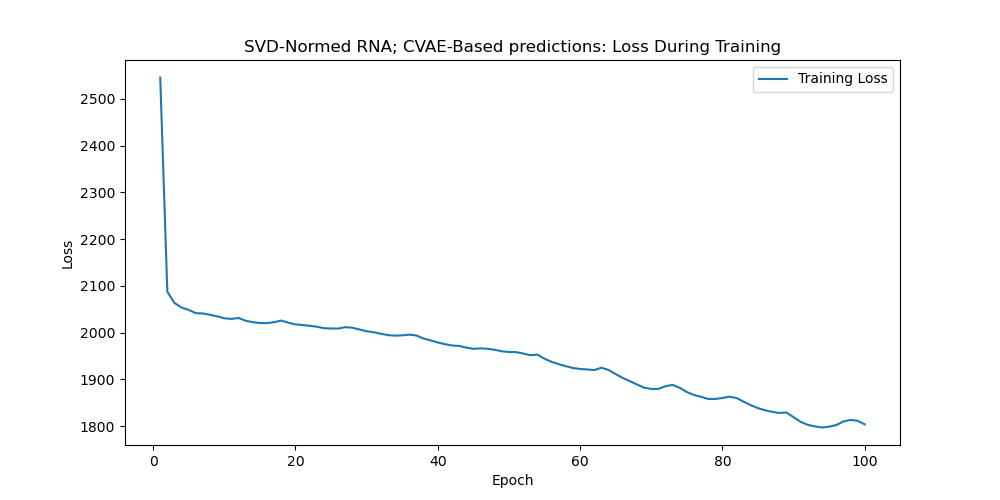
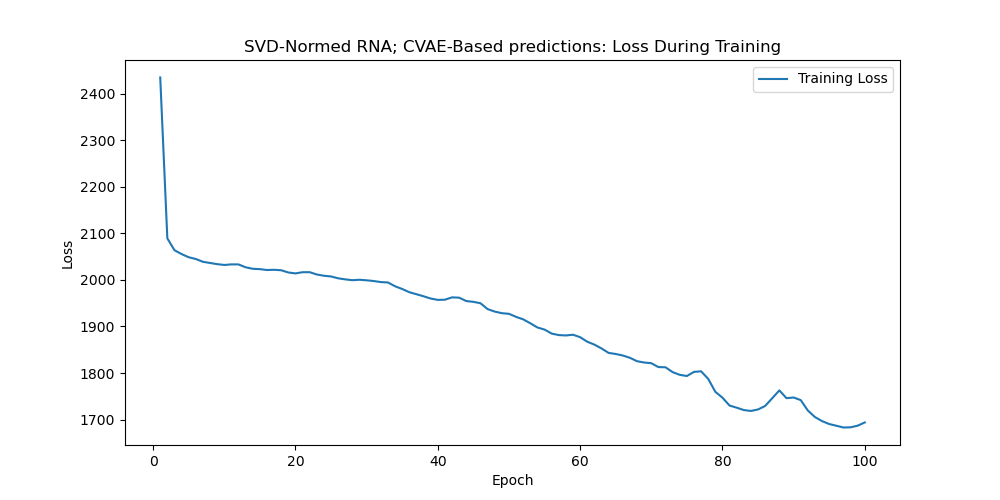
debugging etc

diff --git a/main.py b/main.py
@@ -1,7 +1,7 @@
 import scanpy as sc
 import torch
 import anndata as ad
-from torch.utils.data import DataLoader, TensorDataset
+from torch.utils.data import DataLoader, TensorDataset, random_split
 import numpy as np
 from utils import * 
 from models import VAE, MLP, CVAE
@@ -31,7 +31,7 @@ def main():
     adata.var_names_make_unique()
     adata.layers["counts"] = adata.X.copy()
     sc.pp.filter_genes(adata, min_counts=100) # number of times that RNA is present in the dataset
-    sc.pp.filter_cells(adata, min_counts=500) # number of biomolecules in each cell
+    sc.pp.filter_cells(adata, min_counts=100) # number of biomolecules in each cell
 
     protein = adata[:, adata.var["feature_types"] == "Antibody Capture"].copy()
     rna = adata[:, adata.var["feature_types"] == "Gene Expression"].copy()
@@ -44,8 +44,8 @@ def main():
     
     # RNA Normalization
     sc.pp.log1p(rna)
-    rna_norm = zscore_normalization_and_svd(rna.X.toarray(), n_components=300) # Same as ScLinear authors
-    # rna_norm = rna.X.toarray() # If skipping zscore step
+    # rna_norm = zscore_normalization_and_svd(rna.X.toarray(), n_components=300) # Same as ScLinear authors
+    rna_norm = zscore_normalization(rna.X.toarray()) # If skipping dim reduction step
     
     
     # Protein Normalization 
@@ -57,11 +57,14 @@ def main():
 
     # 80/20 split rule
     split = math.ceil(rna_norm.shape[0] * 0.8)
+    validation_split = math.ceil(rna_norm.shape[0] * 0.95)
     gex_train = rna_norm[:split, :]
-    gex_test = rna_norm[split:, :]
+    gex_test = rna_norm[split:validation_split, :]
+    gex_valid =  rna_norm[validation_split:, :]
 
     adx_train = protein_norm[:split, :]
-    adx_test = protein_norm[split:, :]
+    adx_test = protein_norm[split:validation_split, :]
+    adx_valid = protein_norm[validation_split:, :]
     print(f'Normalized RNA array shape: {rna_norm.shape}')
     print(f'Normalized Protein array shape: {protein_norm.shape}')
     print(f'Original RNA shape: {rna.X.shape}')
@@ -78,17 +81,18 @@ def main():
     latent_size = output_size               # For VAEs: you choose, doesn't theoretically matter
     conditional_size = output_size          # For CVAEs: based on protein dataset shape
     learning_rate = 0.001
-    c = 2 # scaling factor
+    c = 1 # scaling factor
     hidden_dims = [c*1024, c*512, c*256, c*128]  
 
     # print(f'IN: {input_size}, latent: {output_size}, conditional: {conditional_size}')
 
     x_train = torch.from_numpy(gex_train).to(device)
     x_test = torch.from_numpy(gex_test).to(device)
+    x_valid = torch.from_numpy(gex_valid)
 
     y_train = torch.from_numpy(adx_train).to(device)
     y_test = torch.from_numpy(adx_test).to(device)
-
+    y_valid = torch.from_numpy(adx_valid)
 
     # Create TensorDataset and DataLoader
     train_dataset = TensorDataset(x_train, y_train)
@@ -102,9 +106,8 @@ def main():
     print(f'test ADX shape: {y_test.shape}')
     
 
-    train_loader = DataLoader(train_dataset, batch_size=64, shuffle=False)
+    train_loader = DataLoader(train_dataset, batch_size=64, shuffle=True)
     test_loader = DataLoader(test_dataset, batch_size=64, shuffle=False)
-
     
     model = CVAE(input_dim=input_size, latent_dim=latent_size, cond_dim=conditional_size, hidden_dims=hidden_dims).to(device)
     optimizer = optim.Adam(model.parameters(), lr=1e-3)
@@ -120,10 +123,7 @@ def main():
             optimizer.zero_grad()
             
             recon_batch, mu, logvar = model(data, target)
-            recon_batch = recon_batch.to(device)
-            mu = mu.to(device)
-            logvar = logvar.to(device)
-                
+            
             # Debugging checks
             if not (recon_batch.min() >= 0 and recon_batch.max() <= 1):
                 print(f"recon_batch values out of range at batch {batch_idx}")
@@ -147,10 +147,6 @@ def main():
             data, target = data.to(device), target.to(device)
             
             recon_batch, mu, logvar = model(data, target)
-            
-            recon_batch = recon_batch.to(device)
-            mu = mu.to(device)
-            logvar = logvar.to(device)
 
             # Debugging checks
             if not (recon_batch.min() >= 0 and recon_batch.max() <= 1):
@@ -164,8 +160,8 @@ def main():
 
 
     # NOTE: original author eval metric
-    y_pred = sample_from_latent(model, x_test, y_test, device=device)
-    rmse, pearson_corr, spearman_corr = evaluate(y_pred, y_test, verbose=True)
+    y_pred = sample_from_latent(model, x_valid, y_valid, device=device)
+    rmse, pearson_corr, spearman_corr = evaluate(y_pred, y_valid, verbose=True)
     
     
     # Plotting the loss over epochs

diff --git a/utils.py b/utils.py
@@ -25,6 +25,14 @@ def zscore_normalization_and_svd(X: np.ndarray, n_components):
     X_lowdim = svd.fit_transform(X_normalized)
     return X_lowdim
 
+def zscore_normalization(X: np.ndarray):
+    
+    
+    X_sd = np.std(X, axis=1).reshape(-1, 1)
+    X_sd[X_sd == 0] = 1
+    X_normalized = (X - np.mean(X, axis=1).reshape(-1, 1)) / X_sd
+    return X_normalized
+
 
 # Adapted from: https://github.com/DanHanh/scLinear/blob/main/inst/python/evaluate.py
 def evaluate(y_pred, y_test, verbose=True):
@@ -108,11 +116,7 @@ def sample_from_latent(model, data, condition, device):
         return z
 
 def cvae_loss(recon_x, x, mu, logvar, input_dim):
-    # Ensure recon_x and x are in the correct shape and range
-    
-    recon_x = torch.clamp(recon_x, min=1e-7, max=1-1e-7)  # Clamp to avoid log(0)
-    x = torch.clamp(x, min=1e-7, max=1-1e-7)
-    # x = x.view(-1, input_dim)
+    x = x.view(-1, input_dim)
     
     # Check tensor shapes
     assert recon_x.shape == x.shape, f"Shape mismatch: {recon_x.shape} vs {x.shape}"
